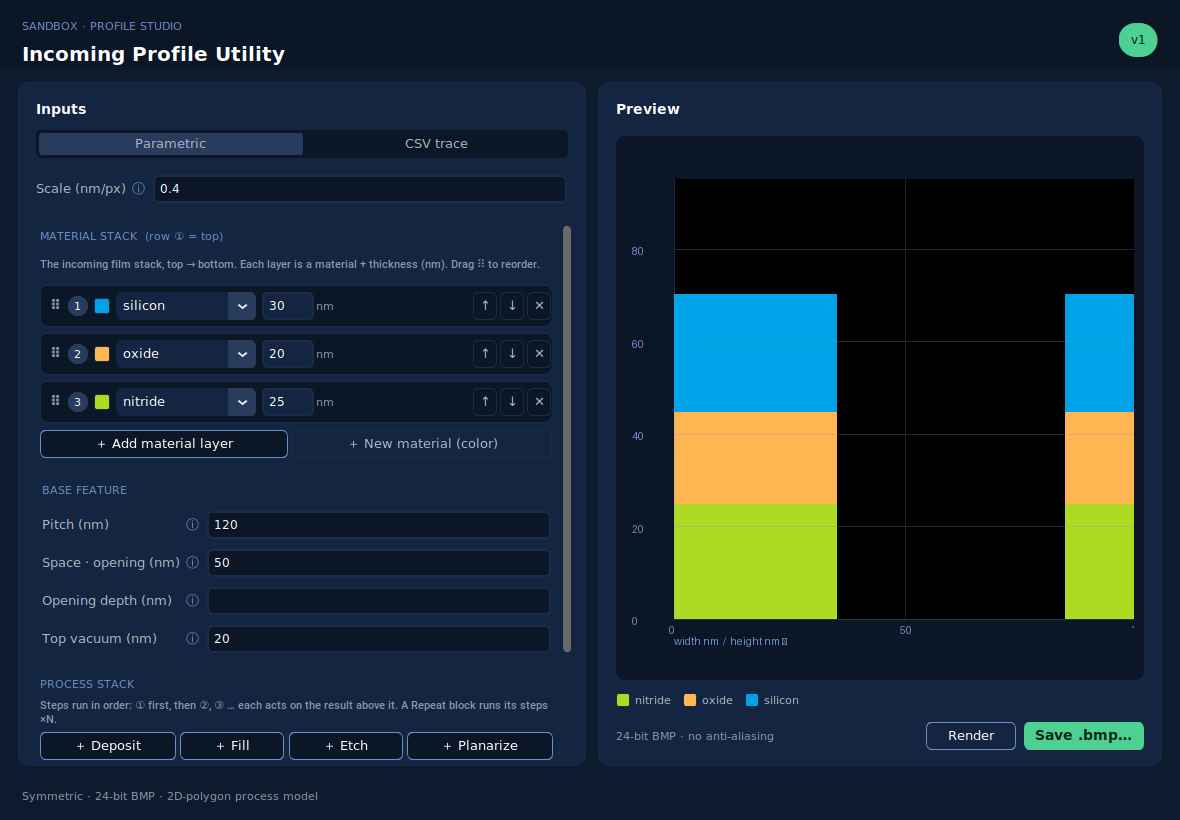
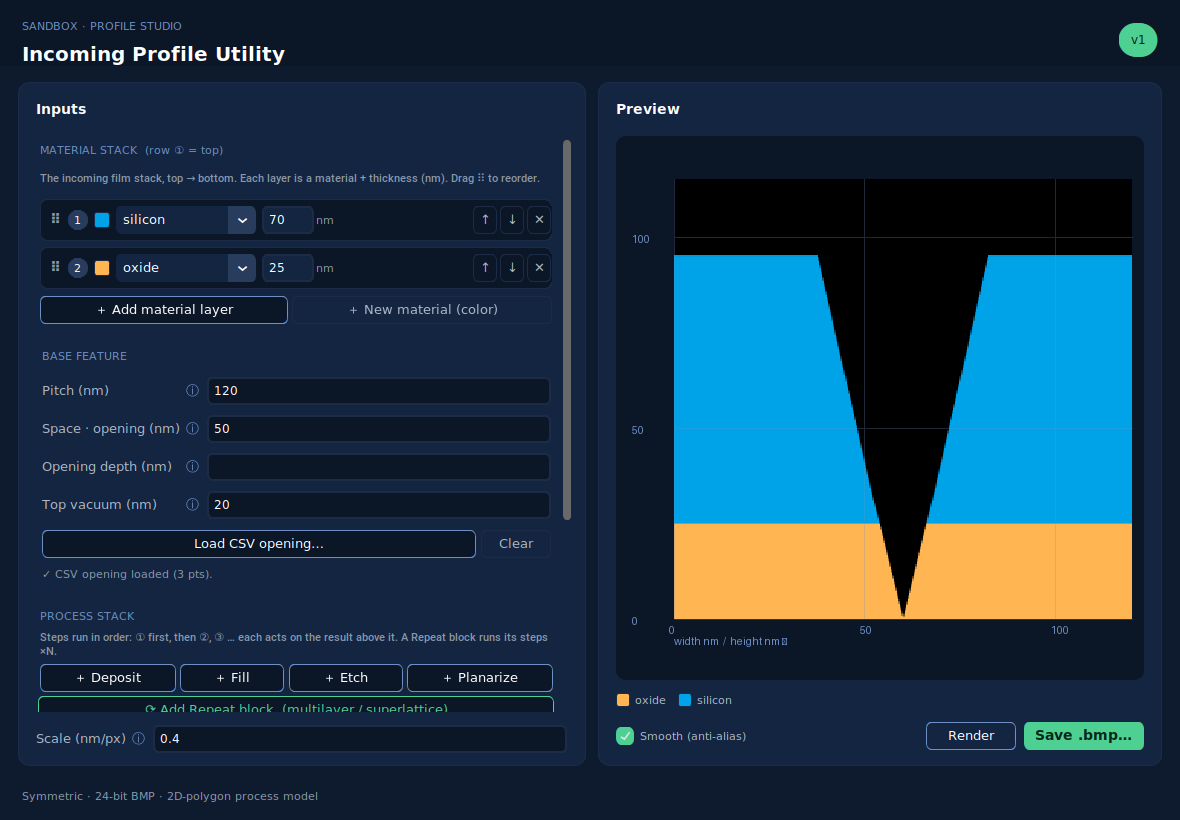
Fix malformed-CSV crash; add smoothing toggle; unify CSV as opening + material layers
- io_csv: reject NaN/ragged rows with a clear count message BEFORE anything renders,
  so a bad CSV can no longer crash the rasterizer or poison later loads.
- Smoothing: 'Smooth (anti-alias)' checkbox (default OFF = hard pixels, as required).
  When on, render supersamples 3x and downsamples (INTER_AREA) for smooth edges.
- Unify CSV into the single page: 'Load CSV opening…' uses the trace as the opening
  shape (top-aligned) within the material stack, so material layers + top vacuum +
  process steps all apply to CSV-loaded profiles. Removed the separate CSV mode/fill.
- process._trace_opening builds the opening polygon from a trace.
- Undo/reset also capture & restore the CSV opening. 20 tests pass.

diff --git a/src/incoming_profile_utility/gui.py b/src/incoming_profile_utility/gui.py
@@ -10,7 +10,6 @@ import customtkinter as ctk
 from PIL import Image, ImageDraw, ImageFont
 
 from .materials import load_palette, _DEFAULT_CONFIG
-from .profiles import render_trace_csv
 from .io_csv import load_trace
 from . import process as proc
 
@@ -225,15 +224,14 @@ class ProfileStudio(ctk.CTk):
         super().__init__()
         ctk.set_appearance_mode("dark"); self.configure(fg_color=NAVY)
         self.title("Incoming Profile Utility"); self.geometry("1180x820")
-        self.palette=load_palette(); self.csv_path=None; self.mode="Parametric"
+        self.palette=load_palette(); self.opening_trace=None
         self.material_menus=[]; self.matlayer_rows=[]; self._last_state=None
-        self._undo=[]; self._loading=False; self._drag=None
+        self._undo=[]; self._loading=False; self._drag=None; self.smooth_var=ctk.BooleanVar(value=False)
         self.uf=ctk.CTkFont(family="Inter",size=13); self.ub=ctk.CTkFont(family="Inter",size=14,weight="bold")
         self.tf=ctk.CTkFont(family="Inter",size=20,weight="bold"); self.mono=ctk.CTkFont(family="JetBrains Mono",size=12)
         self.eb=ctk.CTkFont(family="JetBrains Mono",size=11)
         self.grid_columnconfigure(0,weight=1); self.grid_rowconfigure(1,weight=1)
         self._header(); self._body(); self._footer()
-        self._set_mode("Parametric")
         self.after(160, self.render_preview)
 
     def _row(self,parent,r,label,info,widget):
@@ -265,11 +263,8 @@ class ProfileStudio(ctk.CTk):
 
     def _inputs(self,parent):
         card=self._card(parent,"Inputs"); card.grid(row=0,column=0,sticky="nsew",padx=(0,12))
-        seg=ctk.CTkSegmentedButton(card,values=["Parametric","CSV trace"],command=self._set_mode,font=self.uf,fg_color=NAVY_900,
-             selected_color=BLUE,selected_hover_color=BLUE_L,unselected_color=NAVY_900,text_color=SOFT)
-        seg.set("Parametric"); seg.pack(fill="x",padx=18,pady=(0,10))
-
-        self.param_page=ctk.CTkScrollableFrame(card,fg_color="transparent",height=520)
+        self.param_page=ctk.CTkScrollableFrame(card,fg_color="transparent",height=540)
+        self.param_page.pack(fill="both",expand=True,padx=10)
         self.entries={}
 
         matf=ctk.CTkFrame(self.param_page,fg_color="transparent"); matf.pack(fill="x",pady=(0,6))
@@ -289,6 +284,14 @@ class ProfileStudio(ctk.CTk):
         for i,(k,label,default,info) in enumerate(FIELDS,1):
             e=ctk.CTkEntry(bs,font=self.mono,fg_color=NAVY_900,border_color=NAVY_700,text_color=ON,width=120)
             e.insert(0,default); e.bind("<KeyRelease>",self._schedule_render); self._row(bs,i,label,info,e); self.entries[k]=e
+        ocsv=ctk.CTkFrame(bs,fg_color="transparent"); ocsv.grid(row=len(FIELDS)+1,column=0,columnspan=3,sticky="ew",padx=6,pady=(6,0))
+        ctk.CTkButton(ocsv,text="Load CSV opening…",command=self._load_csv,font=self.uf,fg_color=NAVY_900,border_width=1,
+                      border_color=BLUE_L,text_color=ON,hover_color=NAVY_700).pack(side="left",expand=True,fill="x",padx=2)
+        ctk.CTkButton(ocsv,text="Clear",command=self._clear_csv,font=self.uf,fg_color="transparent",border_width=1,
+                      border_color=NAVY_700,text_color=SOFT,hover_color=NAVY_700,width=70).pack(side="left",padx=2)
+        self.csv_label=ctk.CTkLabel(bs,text="Opening: rectangular (from Space). Load a CSV to use a trace shape instead.",
+                                    font=self.eb,text_color=MUT,wraplength=520,justify="left")
+        self.csv_label.grid(row=len(FIELDS)+2,column=0,columnspan=3,sticky="w",padx=8,pady=(2,2))
 
         ps=ctk.CTkFrame(self.param_page,fg_color="transparent"); ps.pack(fill="x",pady=(8,8))
         ctk.CTkLabel(ps,text="PROCESS STACK",font=self.eb,text_color=BLUE_L).pack(anchor="w",padx=6)
@@ -309,14 +312,6 @@ class ProfileStudio(ctk.CTk):
         ctk.CTkButton(btns,text="↺ Reset",command=self._reset,font=self.uf,fg_color="transparent",border_width=1,
                       border_color=NAVY_700,text_color=SOFT,hover_color=NAVY_700).pack(side="left",expand=True,fill="x",padx=2)
 
-        # ---- csv page ----
-        self.csv_page=ctk.CTkScrollableFrame(card,fg_color="transparent",height=520); self.csv_page.grid_columnconfigure(2,weight=1)
-        ctk.CTkButton(self.csv_page,text="Load CSV…",command=self._load_csv,font=self.uf,fg_color="transparent",border_width=1,
-                      border_color=BLUE_L,text_color=ON,hover_color=NAVY_700).grid(row=0,column=0,columnspan=3,sticky="ew",padx=8,pady=(6,4))
-        self.csv_label=ctk.CTkLabel(self.csv_page,text="no file loaded",font=self.mono,text_color=MUT); self.csv_label.grid(row=1,column=0,columnspan=3,sticky="w",padx=8)
-        self.csv_note=ctk.CTkLabel(self.csv_page,text="Columns: width (full CD, ≥0) and height (≥0).",font=self.eb,text_color=MUT,wraplength=380,justify="left"); self.csv_note.grid(row=2,column=0,columnspan=3,sticky="w",padx=8,pady=(4,8))
-        self.csv_fill=self._mat_menu(self.csv_page,"silicon"); self._row(self.csv_page,3,"Fill material","Color used to fill the trace feature.",self.csv_fill)
-
         common=ctk.CTkFrame(card,fg_color="transparent"); common.pack(fill="x",padx=10,pady=(2,8)); common.grid_columnconfigure(2,weight=1)
         self.scale_entry=ctk.CTkEntry(common,font=self.mono,fg_color=NAVY_900,border_color=NAVY_700,text_color=ON,width=120)
         self.scale_entry.insert(0,"0.4"); self.scale_entry.bind("<KeyRelease>",self._schedule_render)
@@ -328,16 +323,13 @@ class ProfileStudio(ctk.CTk):
         self.preview=ctk.CTkLabel(fr,text="",fg_color=NAVY_900); self.preview.pack(expand=True,fill="both",padx=10,pady=10)
         self.legend=ctk.CTkFrame(card,fg_color="transparent"); self.legend.pack(fill="x",padx=18,pady=(0,4))
         bar=ctk.CTkFrame(card,fg_color="transparent"); bar.pack(fill="x",padx=18,pady=(4,16)); bar.grid_columnconfigure(0,weight=1)
-        ctk.CTkLabel(bar,text="24-bit BMP · no anti-aliasing",font=self.eb,text_color=MUT).grid(row=0,column=0,sticky="w")
+        ctk.CTkCheckBox(bar,text="Smooth (anti-alias)",variable=self.smooth_var,command=self.render_preview,
+                        font=self.eb,text_color=SOFT,fg_color=GREEN,hover_color=GREEN_D,checkbox_width=18,checkbox_height=18).grid(row=0,column=0,sticky="w")
         ctk.CTkButton(bar,text="Render",command=self.render_preview,font=self.uf,width=90,fg_color="transparent",border_width=1,border_color=BLUE_L,text_color=ON,hover_color=NAVY_700).grid(row=0,column=1,padx=(0,8))
         ctk.CTkButton(bar,text="Save .bmp…",command=self.save_bmp,font=self.ub,width=120,fg_color=GREEN,hover_color=GREEN_D,text_color=GREEN_INK).grid(row=0,column=2)
 
     def _footer(self):
         ctk.CTkLabel(self,text="Symmetric · 24-bit BMP · 2D-polygon process model",font=self.eb,text_color=MUT).grid(row=2,column=0,sticky="w",padx=22,pady=(0,10))
-
-    def _set_mode(self,value):
-        self.mode=value; self.param_page.pack_forget(); self.csv_page.pack_forget()
-        (self.param_page if value=="Parametric" else self.csv_page).pack(fill="both",expand=True,padx=10); self.render_preview()
 
     # ---- material stack ----
     def _add_matlayer(self, material="silicon", thickness=20, capture=True):
@@ -370,7 +362,8 @@ class ProfileStudio(ctk.CTk):
         return dict(materials=[(r.mat.get(), r.th.get()) for r in self.matlayer_rows],
                     ops=self.stack.to_ops(),
                     fields={k:self.entries[k].get() for k in self.entries},
-                    scale=self.scale_entry.get())
+                    scale=self.scale_entry.get(),
+                    trace=self.opening_trace)
     def _capture(self):
         if self._loading: return
         self._undo.append(self._snapshot())
@@ -401,6 +394,11 @@ class ProfileStudio(ctk.CTk):
             for k,v in snap["fields"].items():
                 if k in self.entries: self.entries[k].delete(0,"end"); self.entries[k].insert(0,v)
             self.scale_entry.delete(0,"end"); self.scale_entry.insert(0,snap["scale"])
+            self.opening_trace=snap.get("trace")
+            self.csv_label.configure(
+                text=(f"✓ CSV opening loaded ({len(self.opening_trace)} pts)." if self.opening_trace
+                      else "Opening: rectangular (from Space). Load a CSV to use a trace shape instead."),
+                text_color=(GREEN if self.opening_trace else MUT))
         finally:
             self._loading=False
         self.render_preview()
@@ -441,12 +439,19 @@ class ProfileStudio(ctk.CTk):
         path=filedialog.askopenfilename(filetypes=[("CSV","*.csv")])
         if not path: return
         try:
-            load_trace(path)   # validate before committing
+            df=load_trace(path)
         except Exception as exc:
-            self.csv_note.configure(text=f"⚠ {exc}", text_color="#E58B8B"); return
-        self.csv_path=Path(path); self.csv_label.configure(text=self.csv_path.name)
-        self.csv_note.configure(text="✓ Loaded — trace renders as a symmetric profile.", text_color=GREEN)
+            self.csv_label.configure(text=f"⚠ {exc}", text_color="#E58B8B"); return
+        self._capture()
+        self.opening_trace=[(float(w),float(h)) for w,h in zip(df["width"],df["height"])]
+        self.csv_label.configure(text=f"✓ Opening from {Path(path).name} ({len(df)} pts). Space & opening-depth ignored while a CSV opening is loaded.", text_color=GREEN)
         self.render_preview()
+
+    def _clear_csv(self):
+        if self.opening_trace is not None:
+            self._capture(); self.opening_trace=None
+            self.csv_label.configure(text="Opening: rectangular (from Space). Load a CSV to use a trace shape instead.", text_color=MUT)
+            self.render_preview()
 
     def _params(self):
         p={}
@@ -456,6 +461,7 @@ class ProfileStudio(ctk.CTk):
                 try: p[k]=float(v)
                 except ValueError: pass
         p["material_layers"]=[r.to_layer() for r in self.matlayer_rows]
+        if self.opening_trace: p["opening_trace"]=self.opening_trace
         return p
 
     def _scale(self):
@@ -464,18 +470,26 @@ class ProfileStudio(ctk.CTk):
 
     def _render_to(self,out_path):
         npp=self._scale()
-        if self.mode=="CSV trace" and self.csv_path:
-            fill=self.csv_fill.get(); fb=None if fill=="vacuum" else self.palette.bgr(fill)
-            render_trace_csv(self.csv_path,out_path,npp,fill_bgr=fb); self._last_state=None
+        base=proc.build_base(self._params()); st=proc.evaluate(base,self.stack.to_ops()); self._last_state=st
+        ss = 3 if self.smooth_var.get() else 1
+        if ss==1:
+            proc.render_regions(st,self.palette,out_path,npp)     # hard pixels, no AA
         else:
-            base=proc.build_base(self._params()); st=proc.evaluate(base,self.stack.to_ops())
-            proc.render_regions(st,self.palette,out_path,npp); self._last_state=st
+            import cv2
+            hi=Path(tempfile.gettempdir())/"_ipu_hi.bmp"
+            proc.render_regions(st,self.palette,hi,npp/ss)        # supersample
+            minx,miny,maxx,maxy=st.cell.bounds
+            W=max(1,round((maxx-minx)/npp)); H=max(1,round((maxy-miny)/npp))
+            img=cv2.resize(cv2.imread(str(hi)),(W,H),interpolation=cv2.INTER_AREA)
+            cv2.imwrite(str(out_path),img)
 
     def _reset(self):
         self._capture()
         self.stack.clear()
         for r in list(self.matlayer_rows): r.frame.destroy()
         self.matlayer_rows=[]; self._relayout_matstack()
+        self.opening_trace=None
+        self.csv_label.configure(text="Opening: rectangular (from Space). Load a CSV to use a trace shape instead.", text_color=MUT)
         for k,label,default,info in FIELDS:
             self.entries[k].delete(0,"end"); self.entries[k].insert(0,default)
         self.scale_entry.delete(0,"end"); self.scale_entry.insert(0,"0.4")
@@ -483,12 +497,10 @@ class ProfileStudio(ctk.CTk):
 
     def _update_legend(self):
         for w in self.legend.winfo_children(): w.destroy()
-        if self.mode=="CSV trace": mats=[self.csv_fill.get()]
-        elif self._last_state is not None:
-            mats=[]
+        mats=[]
+        if self._last_state is not None:
             for m,_ in self._last_state.regions:
                 if m not in mats: mats.append(m)
-        else: mats=[]
         for mat in mats:
             chip=ctk.CTkFrame(self.legend,fg_color="transparent"); chip.pack(side="left",padx=(0,12))
             sw=ctk.CTkFrame(chip,width=14,height=14,corner_radius=3,fg_color=self.palette.hex(mat),border_width=1,border_color=NAVY_700); sw.pack(side="left",padx=(0,5)); sw.pack_propagate(False)

diff --git a/src/incoming_profile_utility/process.py b/src/incoming_profile_utility/process.py
@@ -93,21 +93,40 @@ def mask_polygon(width, height, base_y, corner="square", facet_angle=45.0, radiu
 #   trench    : inverted default — vacuum trench carved into surround + mask
 #   line      : a solid feature (CD curve) standing in vacuum + mask
 # --------------------------------------------------------------------------- #
-def _build_material_stack(p: dict) -> State:
-    """Vertical stack of material layers with a centered rectangular opening.
+def _trace_opening(trace, total_h):
+    """Build a symmetric opening polygon from a width/height trace, positioned so the
+    trace's top sits at the top of the material stack (opening cut from the top down)."""
+    pts = sorted(((float(w), float(h)) for w, h in trace), key=lambda t: t[1])
+    if not pts:
+        return None
+    hmax = max(h for _, h in pts)
+    off = total_h - hmax                      # align trace top with stack top
+    right = [(w / 2.0, h + off) for w, h in pts]
+    left = [(-w / 2.0, h + off) for w, h in pts][::-1]
+    poly = Polygon(right + left)
+    return poly if poly.is_valid else poly.buffer(0)
 
-    Layers are given TOP-first (row 1 = top of the stack). Height = sum of thicknesses,
-    plus `top_vacuum` of empty space above (default 20 nm) so there is room to deposit
-    on top. Opening: width `space`, cut from the top down by `opening_depth`.
+
+def _build_material_stack(p: dict) -> State:
+    """Vertical stack of material layers with a centered opening.
+
+    Layers are TOP-first (row 1 = top). Height = sum of thicknesses + `top_vacuum`
+    (default 20 nm). The opening is either a rectangle (`space` wide, cut down by
+    `opening_depth`) or, if `opening_trace` is given, the shape of that CSV trace
+    (cut from the top down). Empty stack -> blank canvas.
     """
     pitch = p.get("pitch", 100.0)
     space = p.get("space", 0.0) or 0.0
     top_vac = p.get("top_vacuum", 20.0) or 0.0
     layers = [l for l in p.get("material_layers", []) if l.get("thickness", 0) > 0]
     total = sum(l["thickness"] for l in layers)
-    depth = p.get("opening_depth")
-    open_bottom = 0.0 if (depth is None or depth <= 0 or depth >= total) else (total - depth)
-    opening = box(-space / 2, open_bottom, space / 2, total) if space > 0 else None
+    trace = p.get("opening_trace")
+    if trace:
+        opening = _trace_opening(trace, total)
+    else:
+        depth = p.get("opening_depth")
+        open_bottom = 0.0 if (depth is None or depth <= 0 or depth >= total) else (total - depth)
+        opening = box(-space / 2, open_bottom, space / 2, total) if space > 0 else None
     cell = box(-pitch / 2, 0, pitch / 2, max(total + top_vac, 1.0))
     st = State(cell, [])
     y = 0.0

diff --git a/src/incoming_profile_utility/io_csv.py b/src/incoming_profile_utility/io_csv.py
@@ -21,6 +21,10 @@ def load_trace(path: str | Path) -> pd.DataFrame:
     df = pd.DataFrame({"width": csv[wcol[0]], "height": csv[hcol[0]]}).apply(
         pd.to_numeric, errors="raise"
     )
+    if df.isna().any().any():
+        nw = int(df["width"].notna().sum()); nh = int(df["height"].notna().sum())
+        raise ValueError(f"CSV has missing values (width entries: {nw}, height entries: {nh}). "
+                         "Each row needs exactly one width and one height.")
     if (df["width"] < 0).any():
         raise ValueError("Width must be non-negative — it is the full CD (a size, "
                          "spanning ±width/2 about the centerline), not an x-coordinate.")
